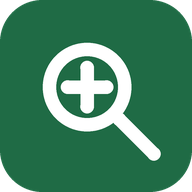
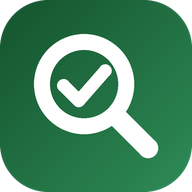
ui: иконки PWA из дизайн-системы v2; воспроизводимая сборка витрины и слайдов
- req_review/web/static/icon-192/512/maskable-512.png и icon.svg заменены знаком DS v2 из design/brand/
  (временные иконки по пометке в scripts/make_pwa_icons.py; manifest и sw.js не менялись)
- id градиента знака считаются заново для каждого рендера — повторная сборка не даёт шума в git diff (тест)

diff --git a/docs/slides.html b/docs/slides.html
@@ -844,7 +844,7 @@ html,body{height:100%;overflow:hidden}
 <div class="deck" id="deck">
   <!-- 1. Титул -->
   <section class="slide" aria-label="Титул">
-    <div class="logo" style="font-size:22px"><span class="logo-mark" style="width:44px;height:44px"><svg xmlns="http://www.w3.org/2000/svg" viewBox="0 0 48 48" width="44" height="44" aria-hidden="true"><defs><linearGradient id="rl10" x1="0" y1="0" x2="1" y2="1"><stop offset="0" stop-color="#14532D"/><stop offset="1" stop-color="#2E8B57"/></linearGradient></defs><rect width="48" height="48" rx="12" fill="url(#rl10)"/><circle cx="21.0" cy="21.0" r="10.5" fill="none" stroke="#FFFFFF" stroke-width="4.0"/><path d="M28.9 28.9L37.0 37.0" stroke="#FFFFFF" stroke-width="5.0" stroke-linecap="round"/><polyline points="15.9,21.4 19.7,25.2 26.3,17.7" fill="none" stroke="#FFFFFF" stroke-width="3.2" stroke-linecap="round" stroke-linejoin="round"/></svg></span>ReqLens</div>
+    <div class="logo" style="font-size:22px"><span class="logo-mark" style="width:44px;height:44px"><svg xmlns="http://www.w3.org/2000/svg" viewBox="0 0 48 48" width="44" height="44" aria-hidden="true"><defs><linearGradient id="rl1" x1="0" y1="0" x2="1" y2="1"><stop offset="0" stop-color="#14532D"/><stop offset="1" stop-color="#2E8B57"/></linearGradient></defs><rect width="48" height="48" rx="12" fill="url(#rl1)"/><circle cx="21.0" cy="21.0" r="10.5" fill="none" stroke="#FFFFFF" stroke-width="4.0"/><path d="M28.9 28.9L37.0 37.0" stroke="#FFFFFF" stroke-width="5.0" stroke-linecap="round"/><polyline points="15.9,21.4 19.7,25.2 26.3,17.7" fill="none" stroke="#FFFFFF" stroke-width="3.2" stroke-linecap="round" stroke-linejoin="round"/></svg></span>ReqLens</div>
     <h1 class="k" style="margin-top:32px">Дефекты требований —<br><span class="grad">до первой строчки кода</span></h1>
     <p class="lead">ИИ-агент статической проверки документа требований по ISO/IEC/IEEE 29148 и IEEE 830: подсветка дефектов в тексте, тест-проба, граф противоречий и исправленный документ. BCC-HUB × MNU FinTech Hackathon.</p>
   </section>
@@ -986,7 +986,7 @@ html,body{height:100%;overflow:hidden}
 
   <!-- 10. Финал -->
   <section class="slide" aria-label="Спасибо">
-    <div class="logo" style="font-size:22px"><span class="logo-mark" style="width:44px;height:44px"><svg xmlns="http://www.w3.org/2000/svg" viewBox="0 0 48 48" width="44" height="44" aria-hidden="true"><defs><linearGradient id="rl11" x1="0" y1="0" x2="1" y2="1"><stop offset="0" stop-color="#14532D"/><stop offset="1" stop-color="#2E8B57"/></linearGradient></defs><rect width="48" height="48" rx="12" fill="url(#rl11)"/><circle cx="21.0" cy="21.0" r="10.5" fill="none" stroke="#FFFFFF" stroke-width="4.0"/><path d="M28.9 28.9L37.0 37.0" stroke="#FFFFFF" stroke-width="5.0" stroke-linecap="round"/><polyline points="15.9,21.4 19.7,25.2 26.3,17.7" fill="none" stroke="#FFFFFF" stroke-width="3.2" stroke-linecap="round" stroke-linejoin="round"/></svg></span>ReqLens</div>
+    <div class="logo" style="font-size:22px"><span class="logo-mark" style="width:44px;height:44px"><svg xmlns="http://www.w3.org/2000/svg" viewBox="0 0 48 48" width="44" height="44" aria-hidden="true"><defs><linearGradient id="rl2" x1="0" y1="0" x2="1" y2="1"><stop offset="0" stop-color="#14532D"/><stop offset="1" stop-color="#2E8B57"/></linearGradient></defs><rect width="48" height="48" rx="12" fill="url(#rl2)"/><circle cx="21.0" cy="21.0" r="10.5" fill="none" stroke="#FFFFFF" stroke-width="4.0"/><path d="M28.9 28.9L37.0 37.0" stroke="#FFFFFF" stroke-width="5.0" stroke-linecap="round"/><polyline points="15.9,21.4 19.7,25.2 26.3,17.7" fill="none" stroke="#FFFFFF" stroke-width="3.2" stroke-linecap="round" stroke-linejoin="round"/></svg></span>ReqLens</div>
     <h2 class="k" style="margin-top:28px">Спасибо!<br><span class="grad">Вопросы?</span></h2>
     <p class="lead">Дальше: интеграция с Confluence и Jira, ревью требований в каждом PR, новые доменные чек-листы одним YAML-файлом.</p>
   </section>

diff --git a/req_review/ui/brand.py b/req_review/ui/brand.py
@@ -61,9 +61,15 @@ def logo_svg(theme: str = "light", height: int = 48) -> str:
             f'font-size="26" font-weight="700" letter-spacing="-0.6">ReqLens</text></svg>')
 
 
-def logo_mark(size: int = 36) -> Markup:
+def logo_mark(size: int = 36, gid: str | None = None) -> Markup:
     """Знак для шаблонов (уникальный id градиента — несколько знаков на одной странице не конфликтуют)."""
-    return Markup(mark_svg(size, f"rl{next(_ids)}").replace('role="img" aria-label="ReqLens"', 'aria-hidden="true"'))
+    return Markup(mark_svg(size, gid or f"rl{next(_ids)}").replace('role="img" aria-label="ReqLens"', 'aria-hidden="true"'))
+
+
+def logo_mark_factory():
+    """logo_mark со своим счётчиком id: у каждого рендера id одинаковые — сборка воспроизводима, без шума в git diff."""
+    ids = itertools.count(1)
+    return lambda size=36: logo_mark(size, f"rl{next(ids)}")
 
 
 def favicon_href() -> str:

diff --git a/req_review/ui/__init__.py b/req_review/ui/__init__.py
@@ -64,12 +64,12 @@ def asset_b64(name: str) -> str:
 def env():
     from jinja2 import Environment, FileSystemLoader, select_autoescape
 
-    from .brand import favicon_href, logo_mark
+    from .brand import favicon_href, logo_mark_factory
     from .icons import ICONS, icon
 
     e = Environment(loader=FileSystemLoader(str(TEMPLATES)), autoescape=select_autoescape(["html", "j2"]))
     e.globals.update(icon=icon, ICONS=ICONS, tokens_css=tokens_css, asset=asset, asset_b64=asset_b64,
-                     logo_mark=logo_mark, favicon_href=favicon_href)
+                     logo_mark=logo_mark_factory(), favicon_href=favicon_href)
     return e
 
 

diff --git a/tests/test_design.py b/tests/test_design.py
@@ -83,6 +83,15 @@ def test_logo_and_favicon_are_inline_and_offline():
     assert mark_svg(48).count("<svg") == 1
 
 
+def test_styleguide_build_is_reproducible(tmp_path):
+    """Повторная сборка даёт тот же HTML — в git diff нет шума от id градиентов."""
+    from req_review.ui.styleguide import build
+
+    a = build(tmp_path / "a.html").read_text(encoding="utf-8")
+    b = build(tmp_path / "b.html").read_text(encoding="utf-8")
+    assert a == b
+
+
 def test_brand_files_for_pwa():
     import json
 
